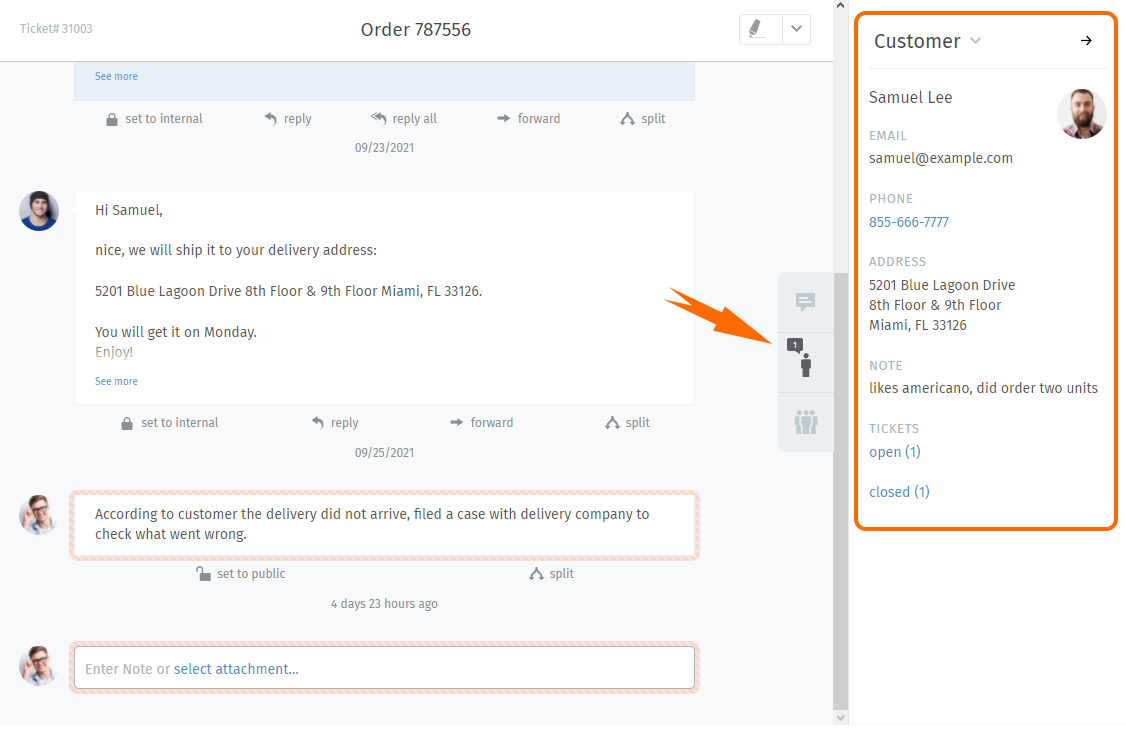
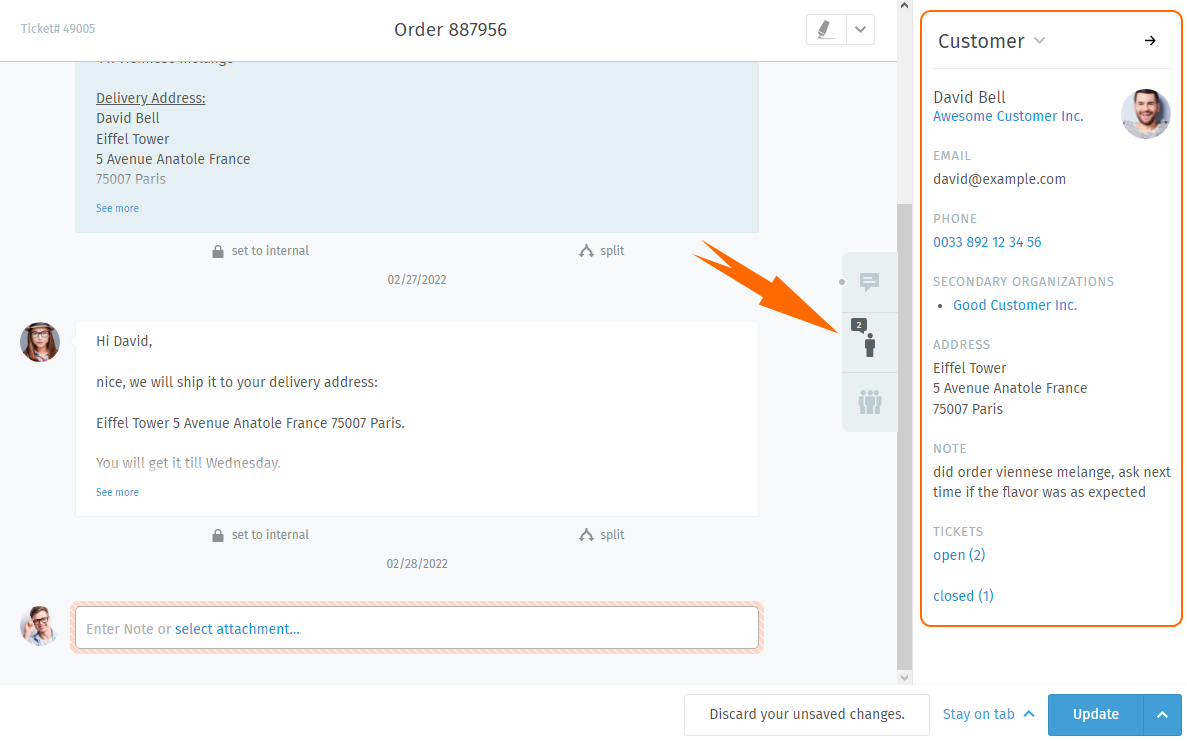
Introduce secondary organizations; update relevant screenshots

diff --git a/extras/customers.rst b/extras/customers.rst
@@ -44,6 +44,11 @@ but here are a couple that might confuse you:
    Customers may (optionally) belong to **organizations** –
    :doc:`skip ahead <organizations>` to learn more.
 
+:Secondary Organizations:
+
+   Unlike organizations, you can add several organizations here that are not
+   as highlighted. Still, the same behavior applies.
+
 :VIP:
 
    Like :doc:`ticket priority </basics/service-ticket/settings/priority>`,
